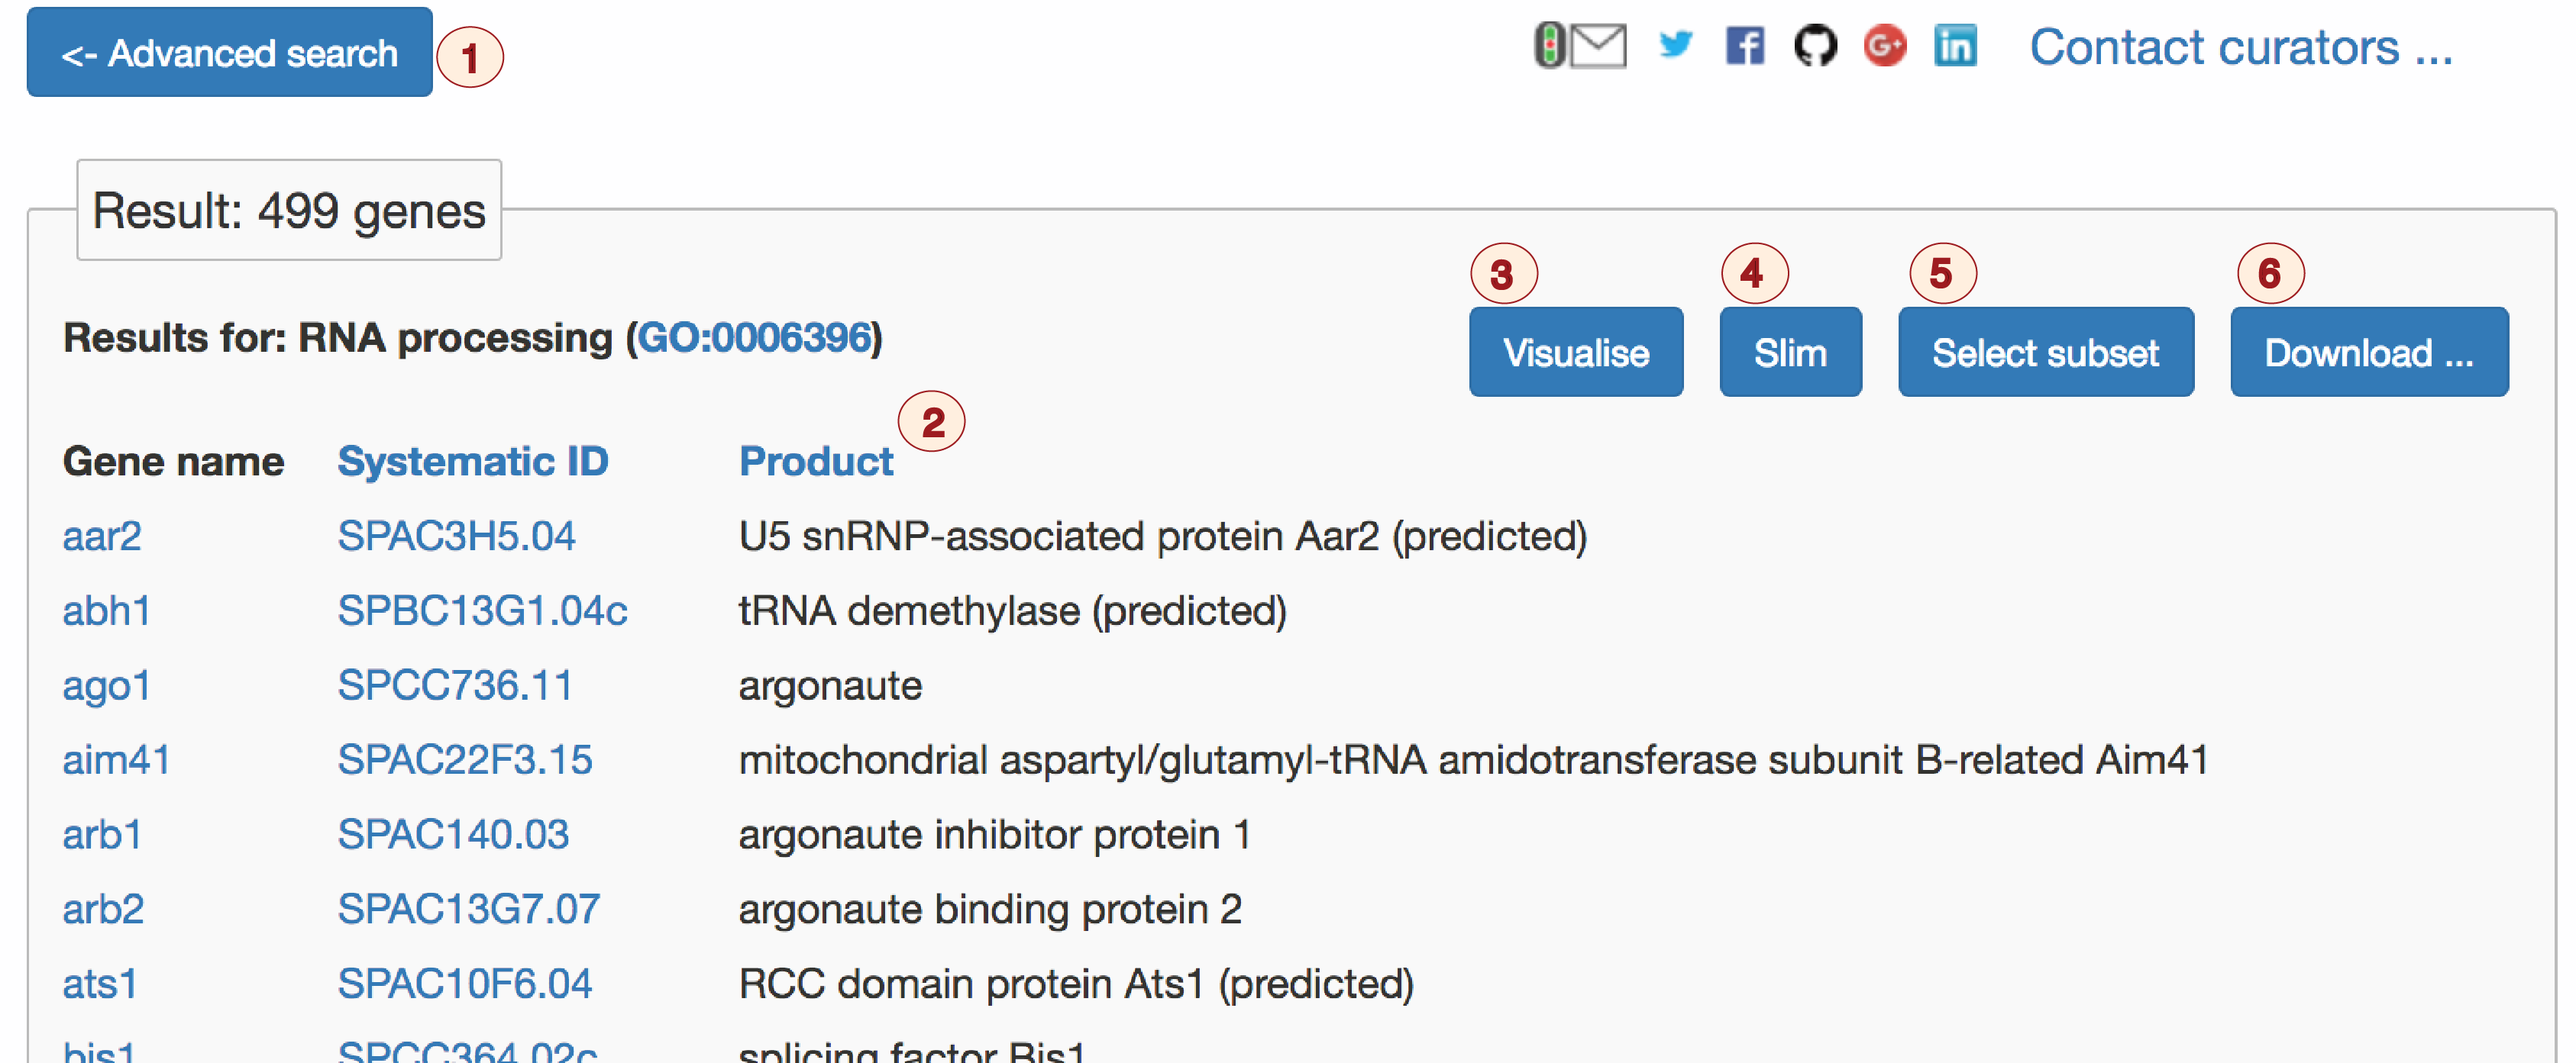
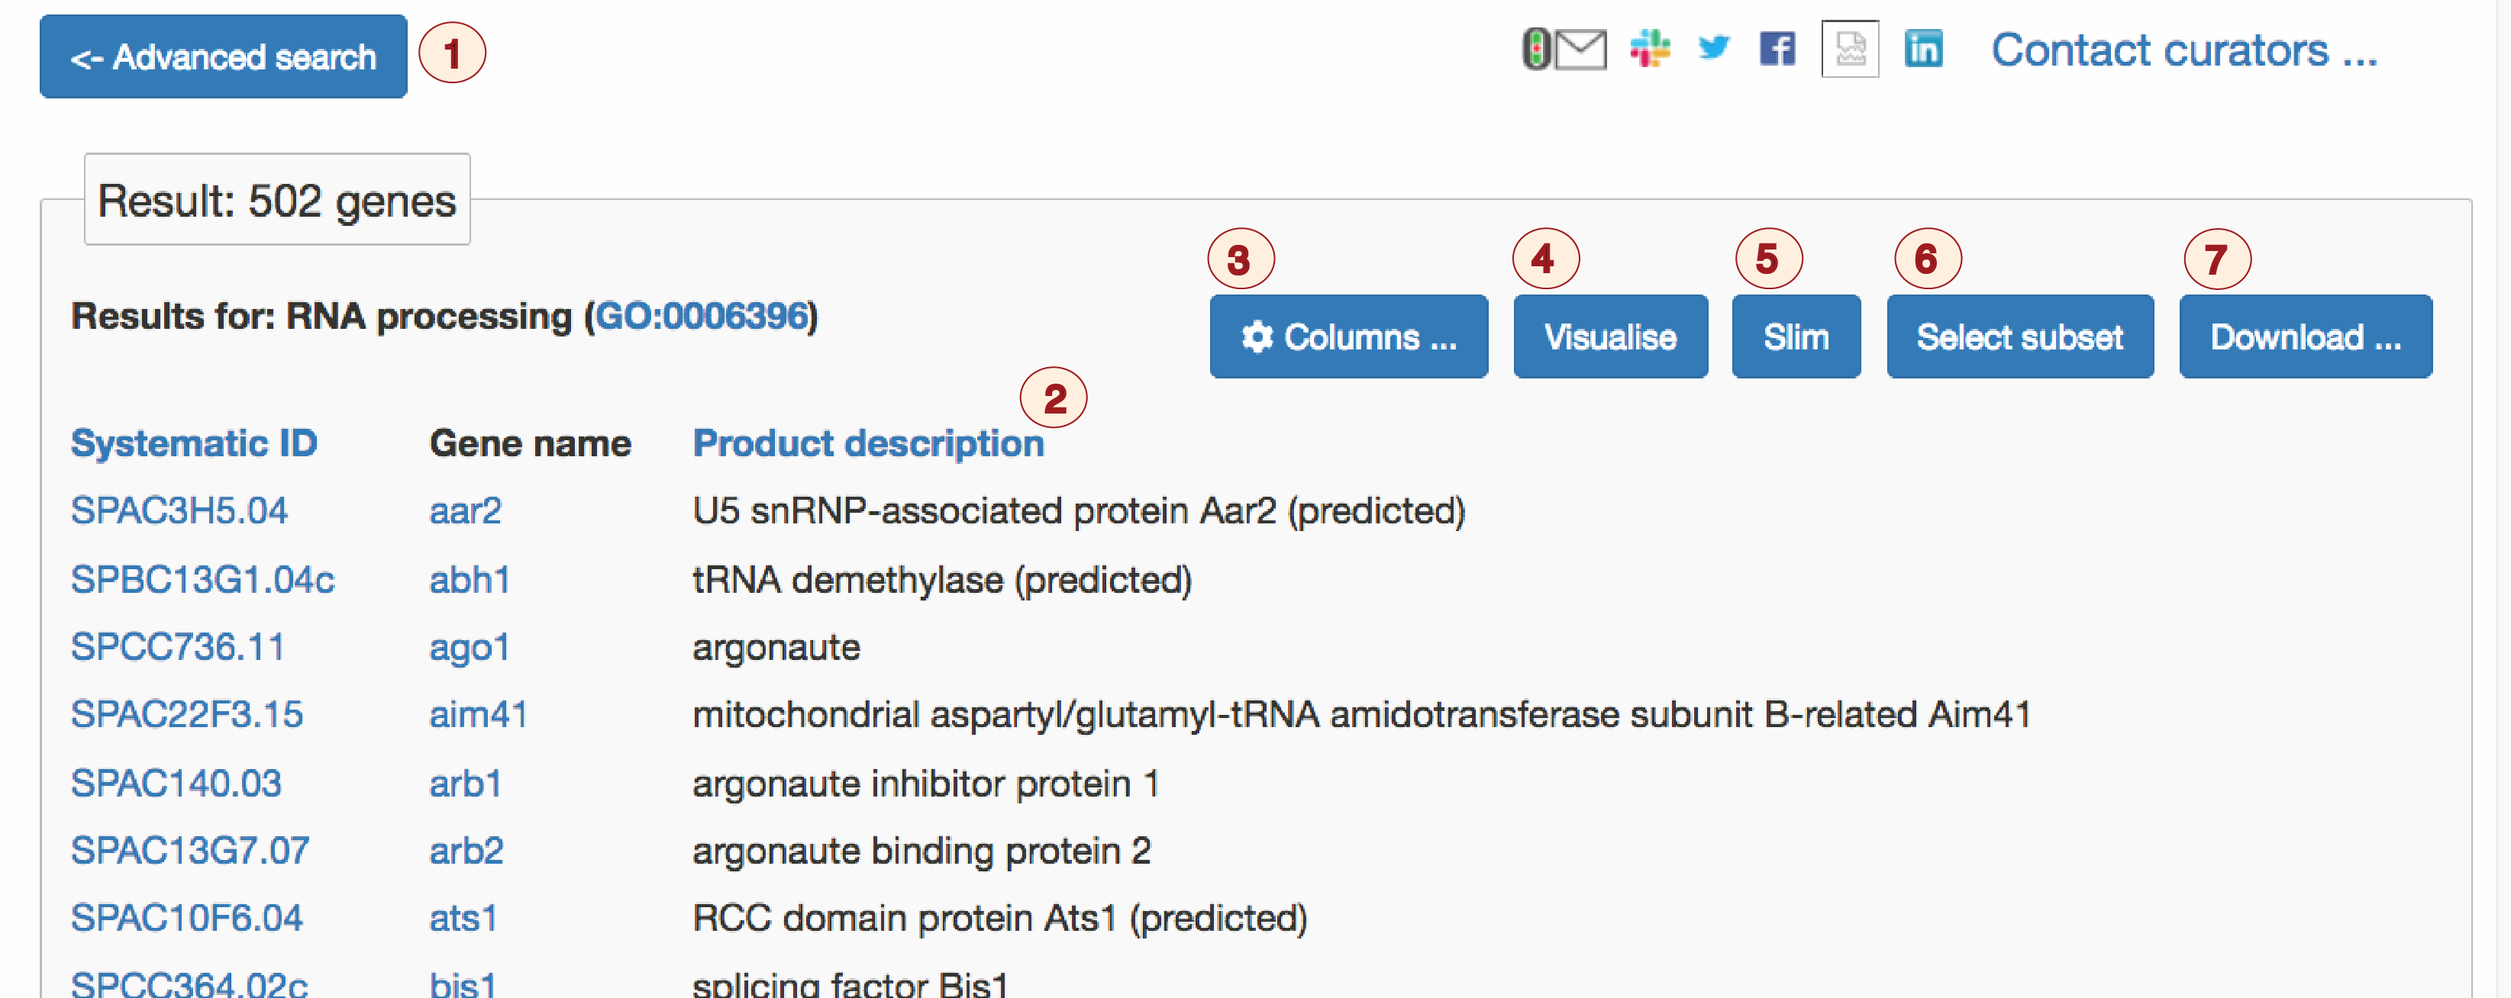
update search documentation for stable results URLs

diff --git a/src/docs/documentation/advanced-search.md b/src/docs/documentation/advanced-search.md
@@ -60,25 +60,37 @@ genes.
 
 ![advanced search results page](assets/advanced_search_results.png){width="400"}
 
-1. Return to the main Advanced search page
+1. Return to the main Advanced search page (you can also use the
+browser "back" button)
 
 2. Click on a header to sort by the column
 
-3. Send the gene list to [QuiLT](documentation/quick-little-tool) for
+3. Select columns to display
+
+4. Send the gene list to [QuiLT](documentation/quick-little-tool) for
 visualisation
 
-4. Show [GO slim](documentation/pombase-go-slim-documentation)
+5. Show [GO slim](documentation/pombase-go-slim-documentation)
 annotations for genes in the list
 
-5. Narrow the list: click the button to reveal checkboxes 
+6. Narrow the list: click the button to reveal checkboxes 
 
-6. Download selected data for genes in the list. In the popup, the
+7. Download selected data for genes in the list. In the popup, the
 default "Tab delimited" view offers a set of details that can be
 included in a downloaded text file. Click "Sequence" to retrieve amino
 acid or nucleotide sequences in FASTA format. Use the checkboxes to
 select which items are included in the headers. When "Nucleotide" is
 selected, flanking sequence options similar to those on the [gene
 page](documentation/gene-page-sequence) are available.
+
+#### Sharing search results
+
+Each results page has a stable, unique URL that you can bookmark,
+copy/paste, and share. Anyone who follows a shared link will see the
+same results page, and the query will be added to their query history.
+
+The "Visualise" and "Slim" options also generate stable, unique,
+sharable URLs.
 
 ### Query types
 

diff --git a/src/docs/documentation/quick-little-tool.md b/src/docs/documentation/quick-little-tool.md
@@ -31,6 +31,13 @@ can clear the selection (5) or use the "Filter" button (6) to create a
 new gene list from the selection (which you can then visualise in
 QuiLT).
 
+### Sharing results
+
+Each QuiLT visualisation page has a stable, unique URL that you can
+bookmark, copy/paste, and share. Anyone who follows a shared link will
+see QuiLT displaying the same gene list. Clicking the "Advanced
+Search" button adds a query that would produce the gene list to the
+query history.
 
 ### Available annotation types
 
